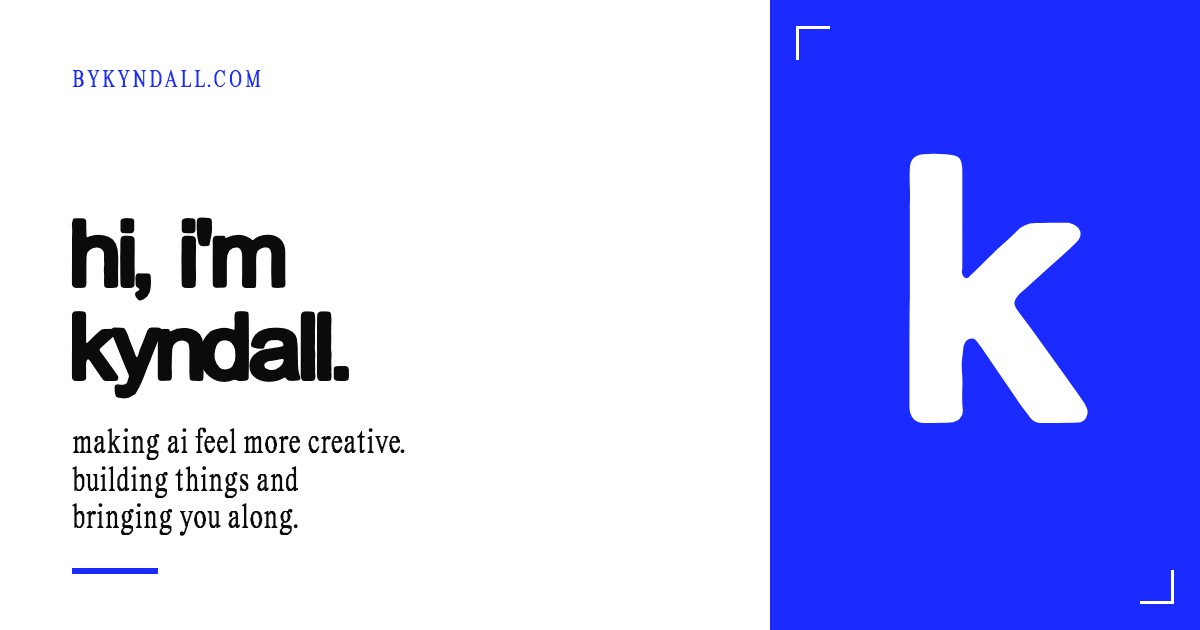
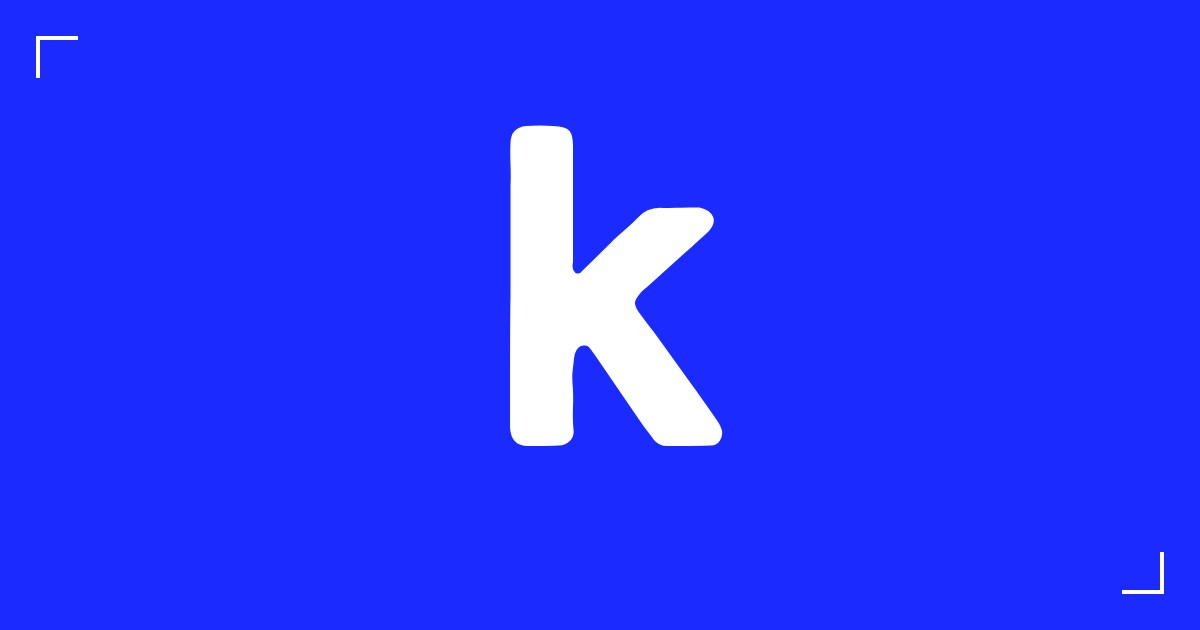
Make the site preview the blue k, full-bleed.
Drop the homepage type. Same mark, crop marks, no extra copy.

diff --git a/src/lib/seo.ts b/src/lib/seo.ts
@@ -13,12 +13,12 @@ const AUTHOR_SAME_AS = [
   SITE.social.youtube,
 ];
 
-/** Shared link-preview card. Type + mark, never the hero video poster. */
+/** Shared link-preview card. Mark only, never the hero video poster. */
 export const SITE_OG_IMAGE = {
   url: "/og/kyndall.jpg",
   width: 1200,
   height: 630,
-  alt: "hi, i'm kyndall.",
+  alt: SITE.name,
   type: "image/jpeg",
 } as const;
 
